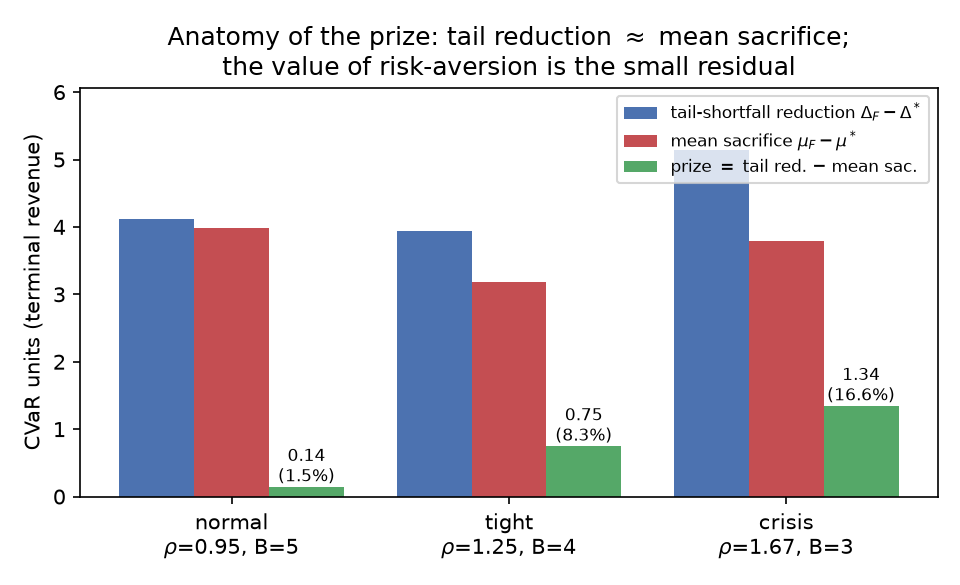
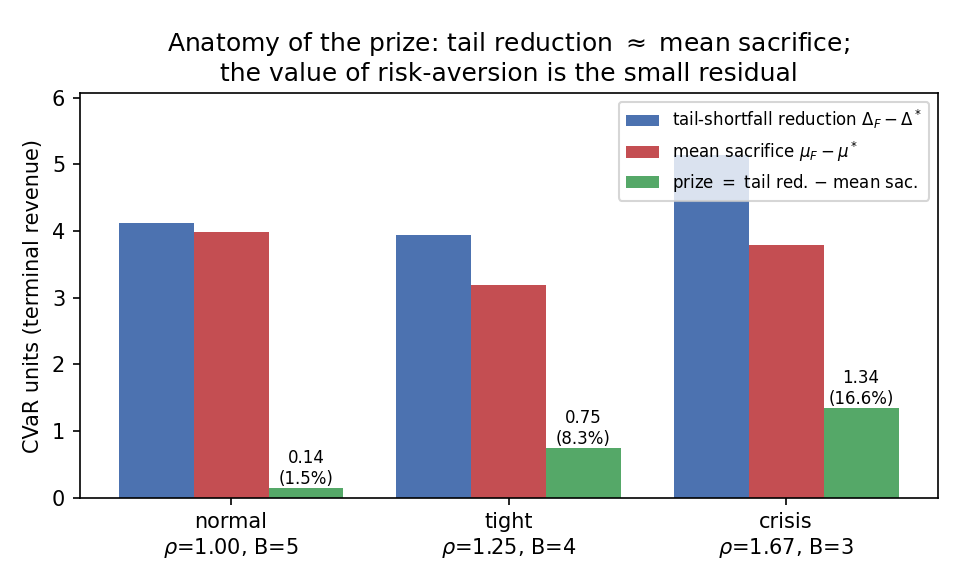
fix(repro): propagate realized rho (1.0) to delta_decomp/fair_baseline/v1 CSVs + scripts
Self-consistency sweep: the normal cell's realized rho is 1.0 (integer-capacity rounding
of a 0.95 target). The paper's Table 3/4 and Figures 2/3 show 1.0; these reproduction
CSVs and runners now expose a rho_real column (1.0) alongside the rho target, so the
package matches the paper. Figures regenerate with rho=1.00. Headline numbers unchanged.

diff --git a/reproduce/experiments/run_delta_decomp.py b/reproduce/experiments/run_delta_decomp.py
@@ -3,7 +3,7 @@
 
 推论 3(恒等式):prize = (μ*−μ_F) + (Δ_F−Δ*) = tail_reduction − mean_sacrifice,
   Δ := μ − CVaR_α(尾偏差);tail_reduction = Δ_F−Δ*(尾缺口缩小);mean_sacrifice = μ_F−μ*(让出的均值)。
-跨 ladder 三档(ρ=0.95/1.25/1.67,δ=1.46)展示:contention 升 → Δ_F 升(非浓缩)→ tail_reduction 升 →
+跨 ladder 三档(ρ_target=0.95/1.25/1.67 → realized 1.0/1.25/1.67,δ=1.46)展示:contention 升 → Δ_F 升(非浓缩)→ tail_reduction 升 →
   prize 升;而 prize 之所以"只有"个位/十几 %,是因为 mean_sacrifice 吃掉了一部分 tail_reduction。
 => ladder 就是 Δ-曲线;价值是 tail-directed(花均值、把质量挪出坏尾)。
 
@@ -80,20 +80,20 @@ def main():
     print(f"③ prize 随 contention 升(1.5→8.3→16.6%): 容量收紧让'花均值换尾部'的交易逐步划算"
           f"(mean_sacrifice 相对 tail_reduction 收缩)。tail-directed: prize 小不是没动作,是动作大体由让均值支付。")
 
-    # regime 对照 δ=1 vs δ=1.46:regime_lift 可负 = S2 不稳健;δ 不是干净的浓缩旋钮
+    # regime 对照 δ=1 vs δ=1.46:regime_lift 可负 = S2 不稳健(桥②);δ 不是干净的浓缩旋钮
     p1 = [decomp(rho, 1.0)['prize'] for _, rho in TIERS]
     print(f"\n[regime 对照] prize δ=1 {[round(x,2) for x in p1]} vs δ=1.46 {[round(x,2) for x in pz]}"
-          f" → δ(regime 分歧)升、prize 反略降(regime_lift<0)= S2 不稳健;"
+          f" → δ(regime 分歧)升、prize 反略降(regime_lift<0)= S2 不稳健(桥②);"
           f"**δ≠浓缩旋钮,不可当 concentration 用**;contention 才是稳健的 prize 驱动。")
 
     out = os.path.join(os.path.dirname(__file__), "outputs", "delta_decomp.csv")
     with open(out, "w", newline="") as fh:
-        cols = ["tier", "rho", "delta", "B", "mu_F", "cvar_F", "Delta_F", "mu_S", "cvar_S",
+        cols = ["tier", "rho", "rho_real", "delta", "B", "mu_F", "cvar_F", "Delta_F", "mu_S", "cvar_S",
                 "Delta_S", "tail_reduction", "mean_sacrifice", "prize", "prize_pct", "fwd_gap"]
         w = csv.writer(fh)
         w.writerow(cols)
         for name, rho, dlt, r in rows:
-            w.writerow([name, rho, dlt, r["B"]] +
+            w.writerow([name, rho, round(r["rho_real"], 4), dlt, r["B"]] +
                        [round(r[k], 4) for k in ["mu_F", "cvar_F", "Delta_F", "mu_S", "cvar_S",
                         "Delta_S", "tail_reduction", "mean_sacrifice", "prize", "prize_pct", "fwd_gap"]])
     print(f"\n[written] {out}")

diff --git a/reproduce/experiments/run_v1_value_table.py b/reproduce/experiments/run_v1_value_table.py
@@ -8,7 +8,7 @@ managerial 主张补一张数表(审稿人指出它缺表支撑)。
 正文 tab:ladder(FLOOR 9.33/8.21/6.75、ONLINE* 9.48/8.96/8.09≈9.5/9.0/8.1)逐档一致。
 对不上即构造未对齐,脚本会直接报错(self-check)。
 
-对三格(normal ρ=0.95 B=5、tight ρ=1.25 B=4、crisis ρ=1.67 B=3,锚 δ=1.46)输出:
+对三格(normal ρ_target=0.95→realized 1.0 B=5、tight ρ=1.25 B=4、crisis ρ=1.67 B=3,锚 δ=1.46)输出:
   CVaR(FLOOR)、CVaR(V1)、CVaR(ONLINE*)
   prize       = ONLINE* − FLOOR            (可实现总价值上限)
   v1_gain     = V1 − FLOOR                  (可部署 V1 较 FLOOR 的增益)
@@ -69,7 +69,7 @@ def main():
                   f"{LADDER_ONLINE[name]} 不符 —— 构造未对齐")
 
         rows.append(dict(
-            tier=name, rho=rho, B=B, T=T, alpha=alpha,
+            tier=name, rho=rho, rho_real=round(ins.meta["rho_realized"], 4), B=B, T=T, alpha=alpha,
             cvar_floor=floor, cvar_v1=v1, cvar_online=online,
             prize=prize, prize_pct=100 * prize_pct,
             v1_gain=v1_gain, capture_pct=100 * capture,
@@ -93,13 +93,13 @@ def main():
 
     out = os.path.join(os.path.dirname(__file__), "outputs", "v1_value_table.csv")
     os.makedirs(os.path.dirname(out), exist_ok=True)
-    cols = ["tier", "rho", "B", "T", "alpha", "cvar_floor", "cvar_v1", "cvar_online",
+    cols = ["tier", "rho", "rho_real", "B", "T", "alpha", "cvar_floor", "cvar_v1", "cvar_online",
             "prize", "prize_pct", "v1_gain", "capture_pct", "residual_pct", "kappa"]
     with open(out, "w", newline="") as fh:
         w = csv.writer(fh)
         w.writerow(cols)
         for r in rows:
-            w.writerow([r["tier"], r["rho"], r["B"], r["T"], r["alpha"]] +
+            w.writerow([r["tier"], r["rho"], r["rho_real"], r["B"], r["T"], r["alpha"]] +
                        [round(r[k], 4) for k in
                         ["cvar_floor", "cvar_v1", "cvar_online", "prize", "prize_pct",
                          "v1_gain", "capture_pct", "residual_pct", "kappa"]])

diff --git a/reproduce/experiments/plot_delta_decomp.py b/reproduce/experiments/plot_delta_decomp.py
@@ -1,5 +1,5 @@
 #!/usr/bin/env python3
-"""画 Δ-分解图——读 outputs/delta_decomp.csv,不重算。
+"""画 Δ-分解图(实验 A,Layer 7 桥①)——读 outputs/delta_decomp.csv,不重算。
 
 每档(normal/tight/crisis)三根柱:tail-shortfall reduction (Δ_F−Δ*)、mean sacrifice (μ_F−μ*)、
 prize(= 二者之差)。直观展示**近抵消**:前两根几乎等高,prize 是那条小残差。
@@ -29,7 +29,7 @@ ax.bar(x + w, prize, w, label=r"prize $=$ tail red. $-$ mean sac.", color="#55A8
 for xi, p, pc in zip(x, prize, ppct):
     ax.annotate(f"{p:.2f}\n({pc:.1f}%)", (xi + w, p), ha="center", va="bottom", fontsize=8)
 ax.set_xticks(x)
-ax.set_xticklabels([f"{t}\n" + r"$\rho$=" + f"{r['rho']}, B={r['B']}" for t, r in zip(tiers, rows)])
+ax.set_xticklabels([f"{t}\n" + r"$\rho$=" + f"{float(r['rho_real']):.2f}, B={r['B']}" for t, r in zip(tiers, rows)])
 ax.set_ylabel("CVaR units (terminal revenue)")
 ax.legend(fontsize=8, loc="upper right")
 ax.set_title("Anatomy of the prize: tail reduction " + r"$\approx$" + " mean sacrifice;\n"

diff --git a/reproduce/experiments/run_fair_baseline.py b/reproduce/experiments/run_fair_baseline.py
@@ -31,7 +31,7 @@ def main():
         print(f"{name:>8}{rho:>6.2f}{B:>3}  {res['cvar_floor']:>7.3f}{res['cvar_neutral']:>8.3f}"
               f"{res['cvar_best']:>7.3f}{res['cvar_online']:>8.3f}  "
               f"{res['prize_total_pct']:>6.1f}%{res['prize_neutral_pct']:>6.1f}%{res['prize_cvar_pct']:>8.1f}%")
-        rows.append(dict(tier=name, rho=rho, B=B, T=T, alpha=alpha,
+        rows.append(dict(tier=name, rho=rho, rho_real=round(ins.meta["rho_realized"], 4), B=B, T=T, alpha=alpha,
                          cvar_floor=res["cvar_floor"], cvar_neutral=res["cvar_neutral"],
                          cvar_best=res["cvar_best"], cvar_online=res["cvar_online"],
                          prize_total_pct=res["prize_total_pct"], prize_neutral_pct=res["prize_neutral_pct"],